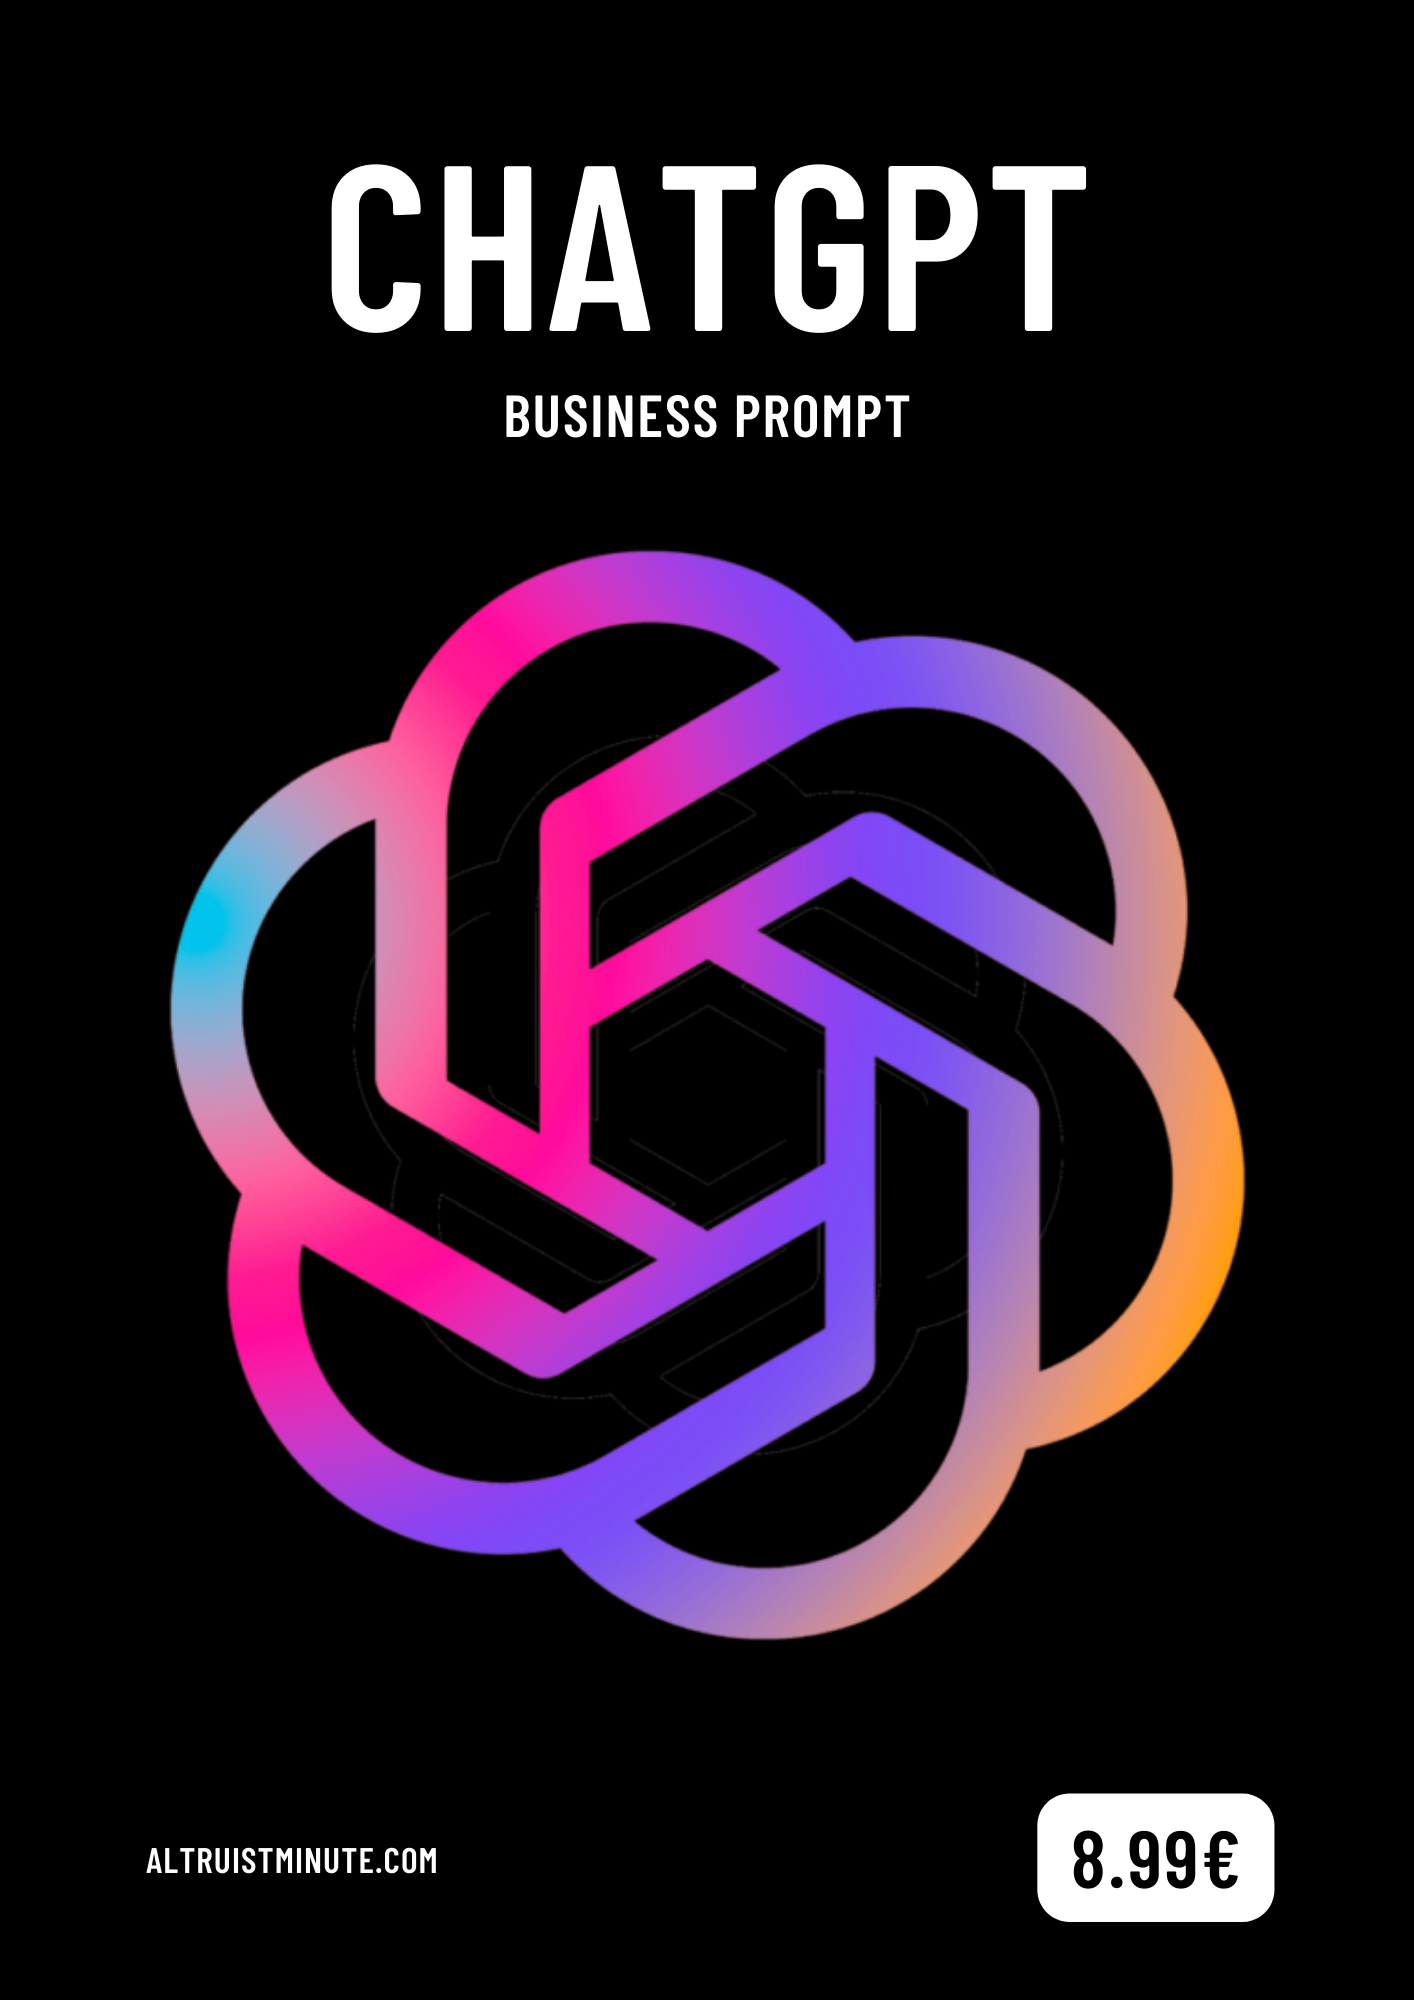
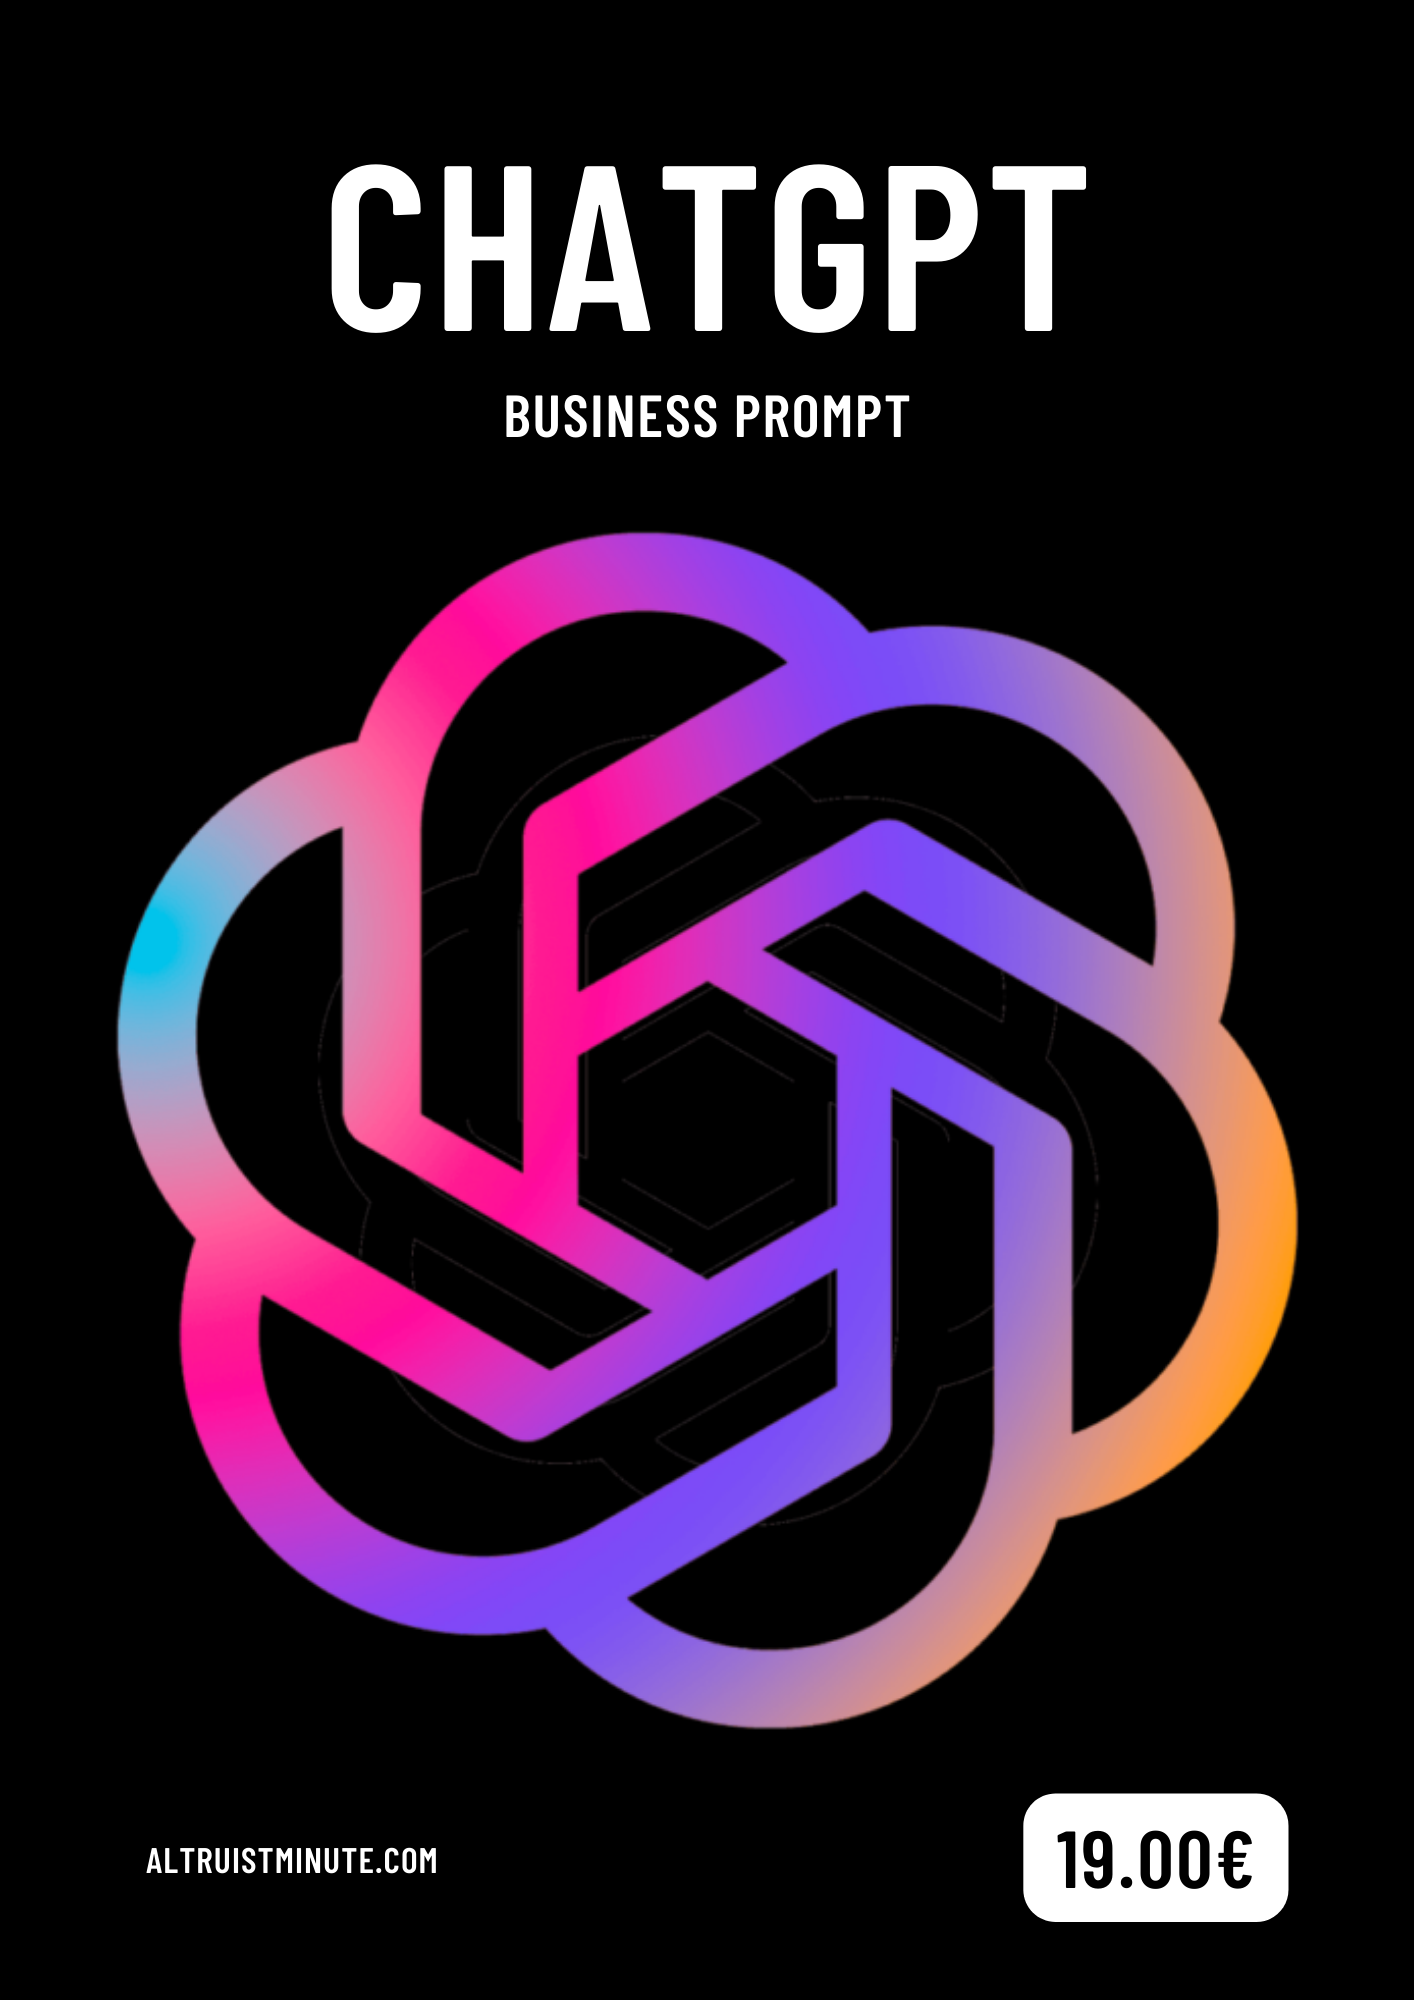
gg

diff --git a/ChatGPTBusinessPrompt.html b/ChatGPTBusinessPrompt.html
@@ -569,7 +569,7 @@ function submitForm() {
   	</form>
 	</div>
 	<div id="footerBackground"></div>
-	<div id="footer">ChatGPTBusinessPrompt.pdf <button class="download" onclick="location.href='https://buy.stripe.com/14kaG3cmY3p429afZV'">Acheter Pour 19€</button></div>
+	<div id="footer">ChatGPTBusinessPrompt.pdf <button class="download" onclick="location.href='https://buy.stripe.com/14kaG3cmY3p429afZV'">Acheter Pour 19.00€</button></div>
 <script>
 com.goalkicker.headerFooterGlassEffect.load();
 
